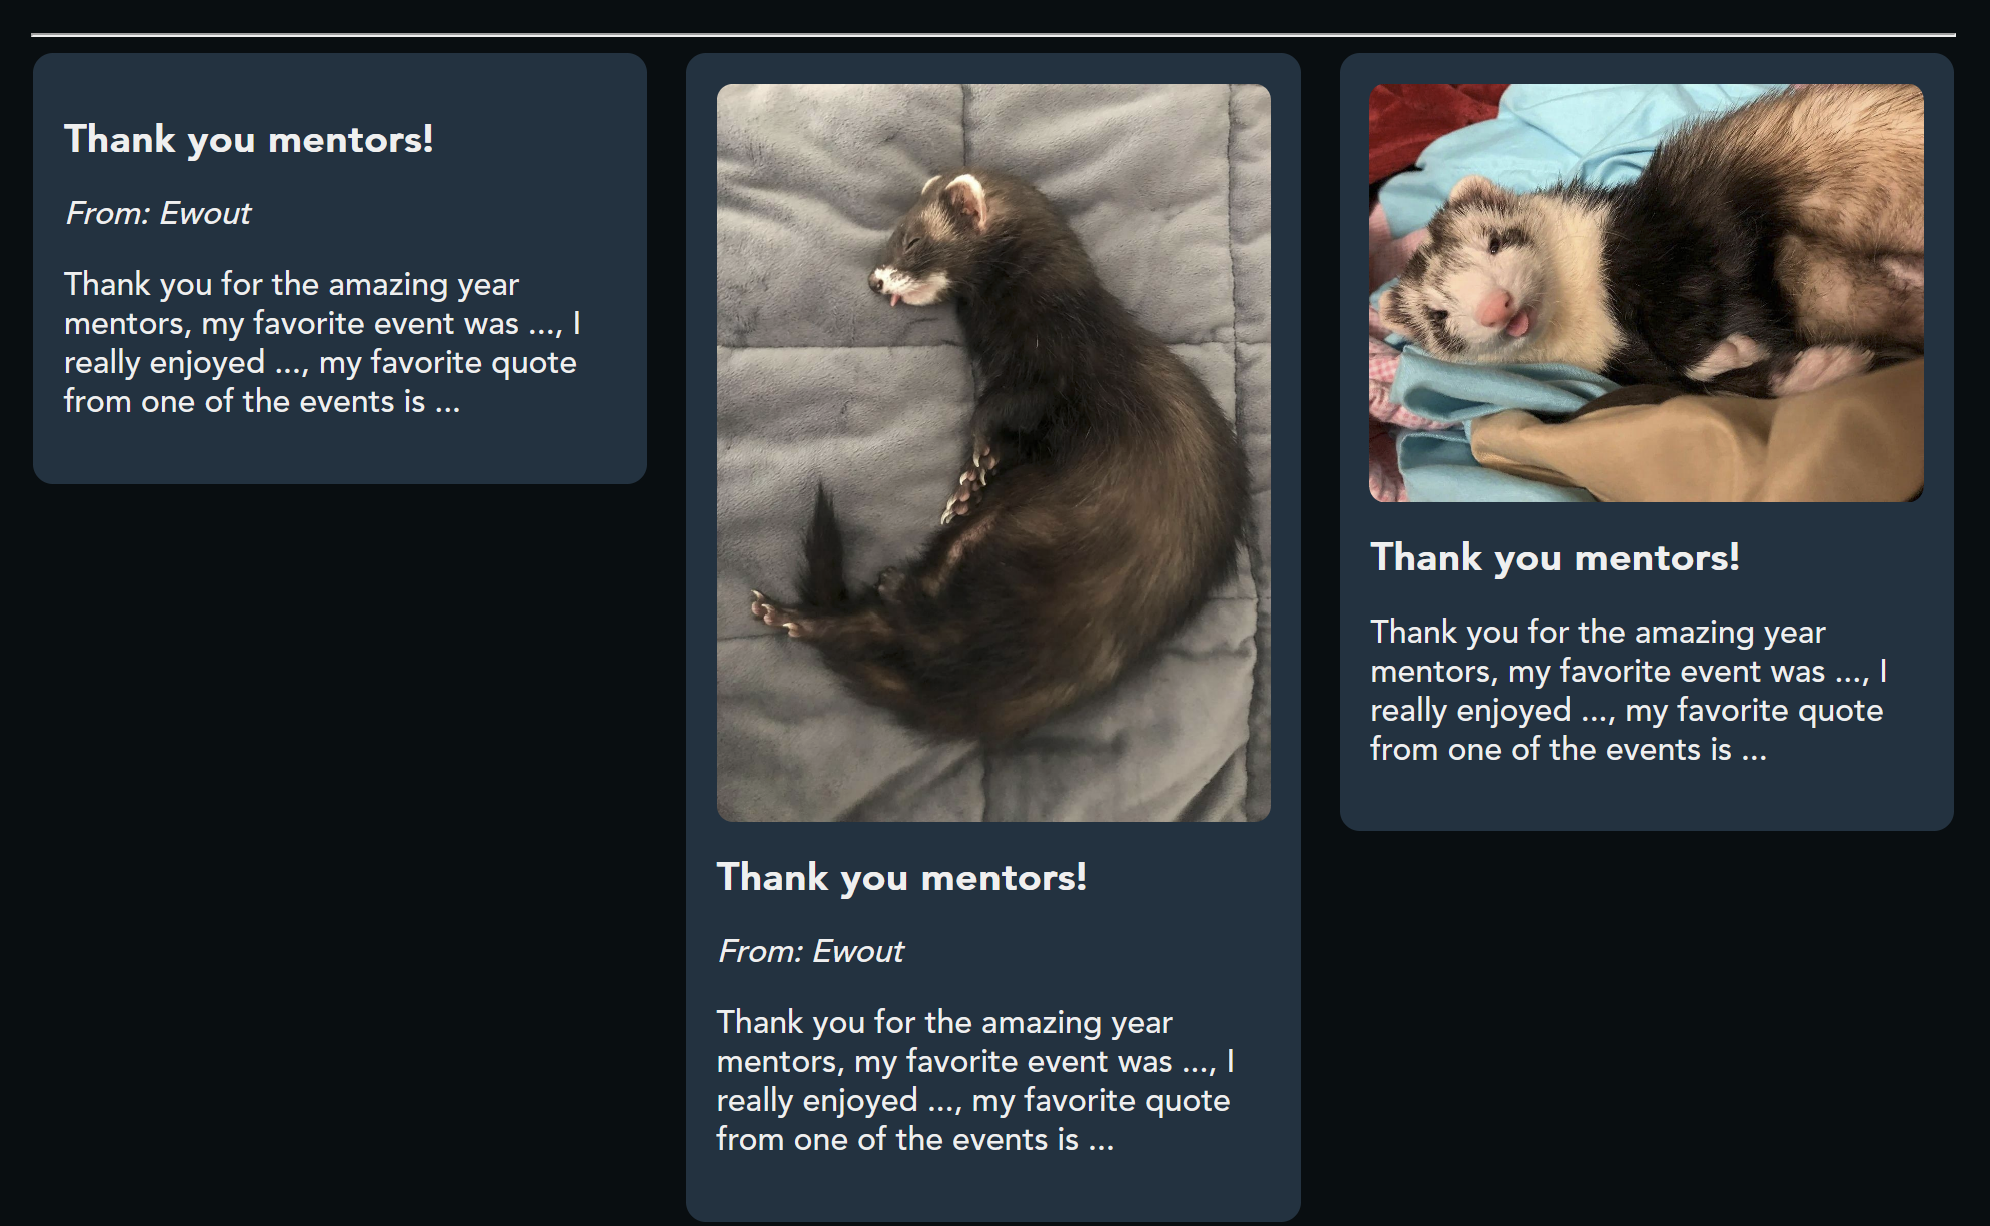
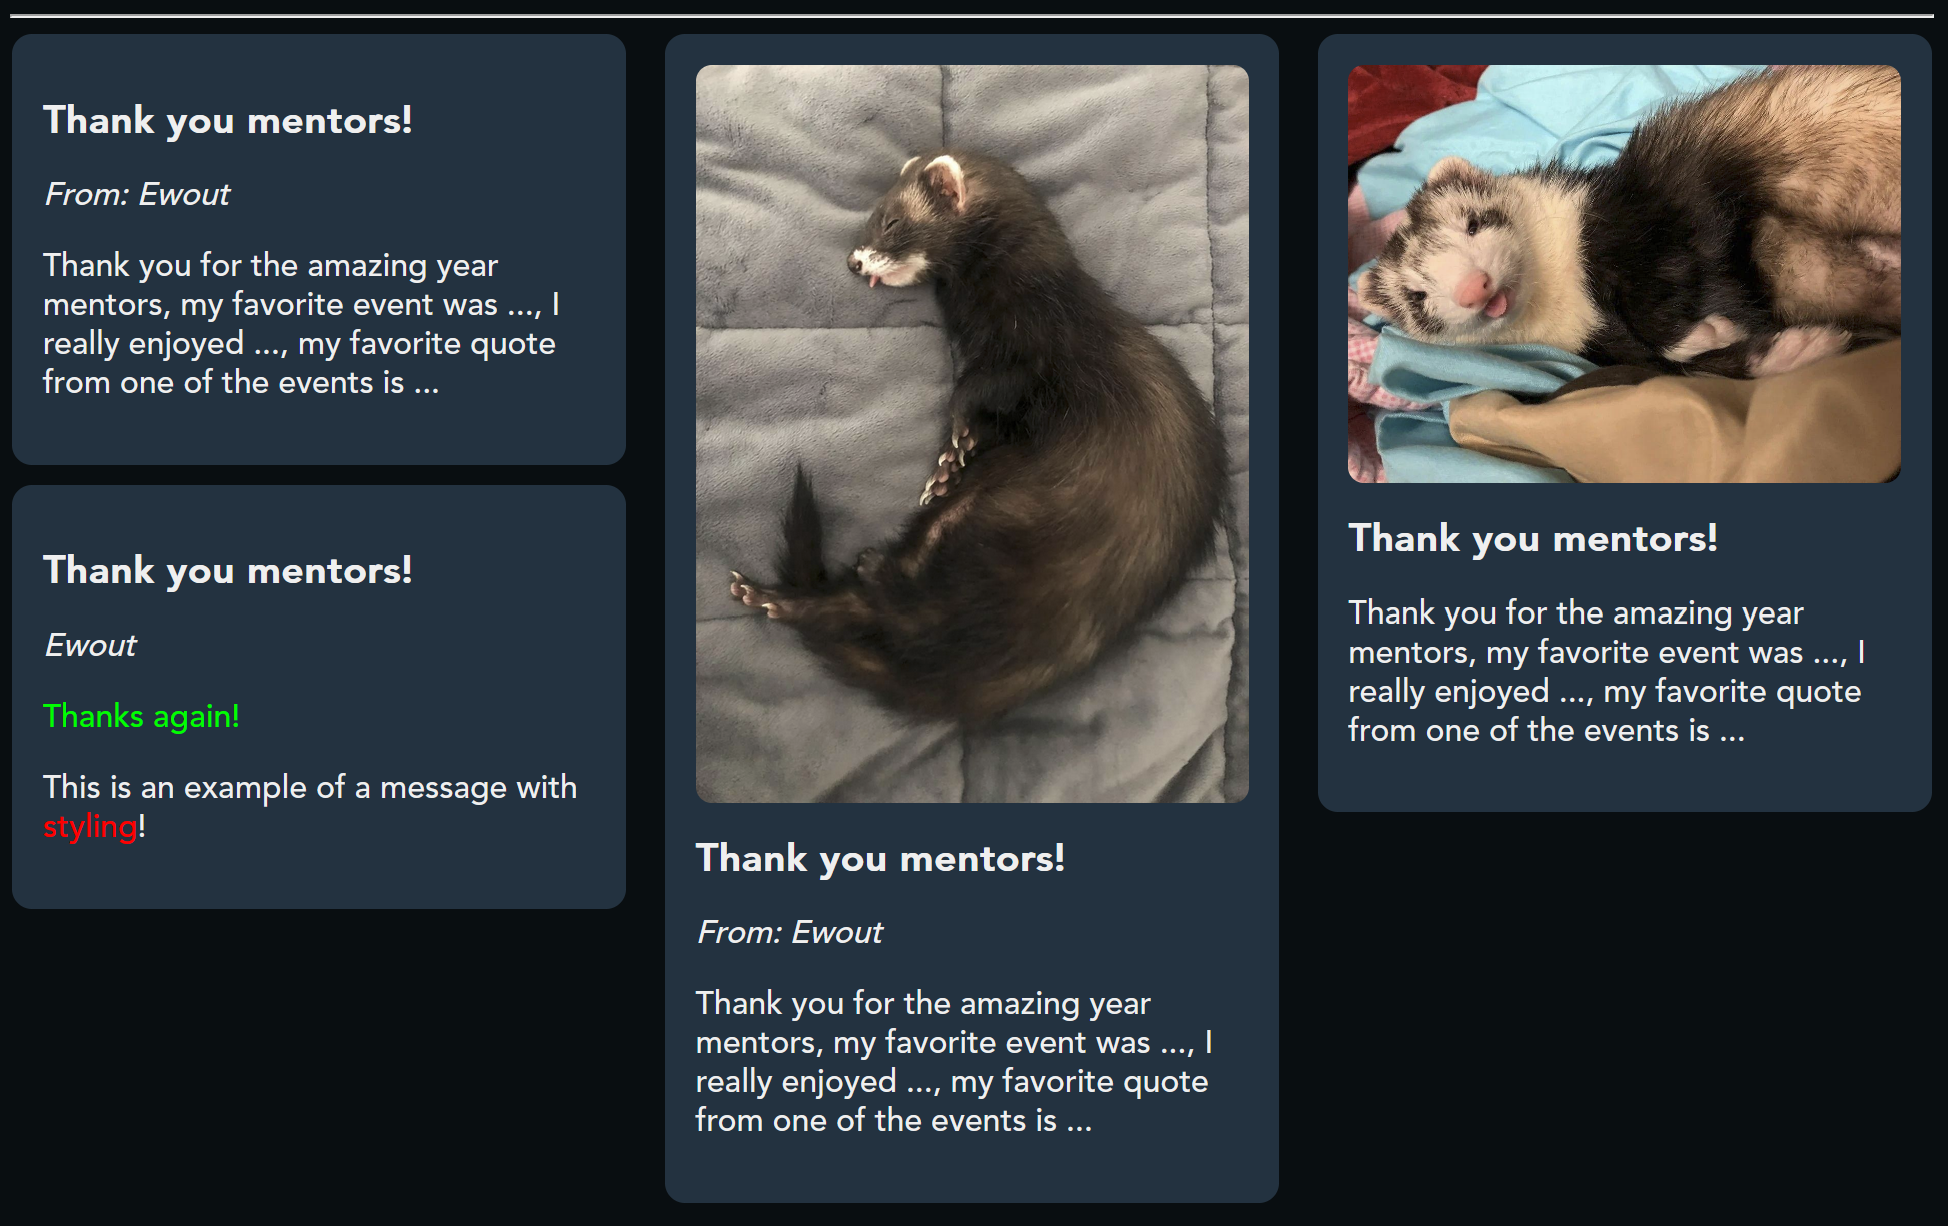
Updated tutorials to include inline styling

diff --git a/index.css b/index.css
@@ -57,6 +57,21 @@ span.img-close-btn {
     font-size: 1.6em;
 }
 
+h3,
+h4,
+h5,
+h6
+{
+    font-family: "Avenir heavy";
+}
+
+p,
+span,
+div
+{
+    font-family: "Avenir medium";
+}
+
 
 /* Element styling */
 body {

diff --git a/Tutorial/CSS_guidelines.md b/Tutorial/CSS_guidelines.md
@@ -1,0 +1,24 @@
+# Using CSS in your message
+
+You can also use inline CSS in your message! Here's how it works:
+
+Your message is put inside a `<p class="light"></p>` HTML tag. Inside, you can put all kinds of HTML elements, such as another `<p>` element, or a `<span>` element so the message doesn't have a line break. Inside of these elements, you can place attributes, and in this case the most useful is the `style=''` attribute. You can use this attribute to assign a style to that specific element, such as change the text color, the font, the font weight, etc. You can find a list of all CSS properties at [w3schools.com](https://www.w3schools.com/cssref/index.php). You can find an example of how to use the inline styling in [`Example_with_styling`](../Example_folders/Example_with_styling/message.json).
+
+If you are using HTML elements and inline styling, make sure that the `"uses_styling"` field in your message.json file is set to `true`! If it's set to `false`, the raw HTML and CSS will appear directly on the website.
+
+The website is able to switch between light and dark mode, so make sure your text is visible in both versions of the website! If you have unstyled text somewhere, make sure to wrap it in either one of these elements:
+- `<p class='light'></p>`
+- `<span class='light'></span>`
+
+Just to be safe, the website checks messages that have the `"uses_styling"` field set to `true` for elements that can introduce harmful content onto the website, and it will not load messages that contain such elements. To make sure your message does get loaded onto the website, make sure no text that appears in [`js/disallowed_substrings.json`](../js/disallowed_substrings.json) also appears in your message.
+
+## CSS guidelines
+
+Please make sure you follow these guidelines:
+- Strictly no scripts, be it inline or with a `<script>` tag.
+- Only inline CSS is allowed. CSS inside a `<style>` tag might overwrite the webpages CSS, which is not permitted.
+- Make sure your message does not go out of bounds, so that it doesn't start overlapping with other people's messages.
+- You only get one image at the top of your message. Images inserted into your message are not permitted, to make sure the website doesn't get overloaded with images and to create an even playing field with people who might not know how to write HTML and CSS.
+- Keep it fun and nice for everybody. This is a place for everybody to collectively show their appreciation for what the mentors have done, not a place for you to show off your graphic design / hacking skills.
+
+**With that out of the way, go turn your message into something beautiful!**

diff --git a/Tutorial/Making_your_message.md b/Tutorial/Making_your_message.md
@@ -13,6 +13,7 @@ Each message folder must contain at least one file, namely a "message.json" file
 ![
     {
         "image_filename": "",
+        "uses_styling": false,
         "title": "",
         "author": "",
         "message": ""
@@ -29,14 +30,15 @@ Each message folder also must have a unique name, which should be clear why.
 
 Start by creating a folder with a unique name inside the "content" folder. Inside this folder, create a file named "message.json" (without the quotes), and copy the contents of [`Example_folders/Empty_message.json`](../Example_folders/Empty_message.json) into the message.json file you just created. If you want to add a picture to your message (like a group picture with your friends or mentors), also add your picture in this folder (make sure everybody in the picture is okay with you using that picture, it will be visible to the entire internet after all). 
 
-You can now write your message inside the message.json file you've created. Here is a description of the fields you may use:
+You can now write your message inside the message.json file you've created! And also, you can use inline CSS to style your message! (Please follow the short CSS guidelines: [`CSS_guidelines.md`](./CSS_guidelines.md)). Here is a description of the fields you may use:
 
 | Field | Mandatory? | How to use | Example |
 |:-----:|:----------:|:-----------|:-------:|
 | "image_filename" | Depends | If you've added a picture to your folder, write down the file name and file type in this field (see examples). Else, just leave the field empty | [`Example_with_image`](../Example_folders/Example_with_image/) [`Example_without_image`](../Example_folders/Example_no_image/) |
+| "uses_styling" | Yes | This field is either true or false. Write true if your message uses CSS styling, leave it on false if your message is just plain text | [`Example_with_styling`](../Example_folders/Example_with_styling/) |
 | "title" | Yes | Write a title to your message in this field | [`Example_with_title`](../Example_folders/Example_no_image/) |
 | "author" | No | Write your name, a pseudonym or leave this field blank to stay fully anonymous | [`Example_with_author`](../Example_folders/Example_no_image/) [`Èxample_without_author`](../Example_folders/Example_no_author/) |
-| "message" | Yes | Write your kind message to the mentors! The examples contain some idea's, but don't be scared to write your own thing! (Try not to exceed 100 words) | [`Example_message`](../Example_folders/Example_no_image/) |
+| "message" | Yes | Write your kind message to the mentors! The examples contain some idea's to get you started, but don't be scared to write your own thing! (Try not to exceed 100 words). If you want to style your image, write some HTML with inline CSS here! (again, [please read the `CSS guidelines`](./CSS_guidelines.md)). If you just want to leave a message without styling, just write plain text :) | [`Example_message`](../Example_folders/Example_no_image/) |
 
 The example message folders together would look like this on the final webpage:
 